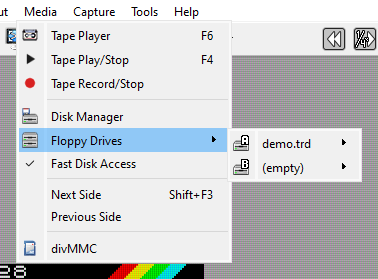
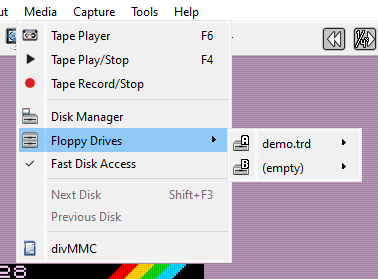
manual: Next/Previous Tape or Disk in the Media menu, grayed with no other side; menu-floppy re-shot

Changed region(s): [[0.1164, 0.7455, 0.3201, 0.8029], [0.4365, 0.6595, 0.582, 0.7168], [0.1164, 0.6595, 0.291, 0.7168]]

diff --git a/docs/manual/files.md b/docs/manual/files.md
@@ -135,16 +135,19 @@ and its gamepad bindings and its cheat file stay, as when the next tape of a set
 itself (see [Tapes](tapes.md)). The side goes in while the machine runs, with no pause in
 the picture or the sound.
 
-```{index} Next Side, Previous Side, side; changing by a key
+```{index} Next Tape or Disk, Previous Tape or Disk, side; changing by a key
 ```
 
-**Media > Next Side**, Shift+F3, puts in the next side without a menu: side B after side A,
-disk 3 after disk 2, and the first after the last; **Previous Side** goes the other way and
-has no key at first (see [Hotkeys](hotkeys.md)). It works on the tape or the drive that the
-program used last, the one the window title names, and keeps to it while you press it again;
-before the program has used either, on the tape if it is one of a set, else on drive A. A
-playing tape is stopped first. A disk that is in another drive is passed over. The screen
-shows what went in, as `drive A: side B`, or `no other side`. Of the files of one side, as
+**Media > Next Tape** or **Next Disk**, Shift+F3, puts in the next side without a menu:
+side B after side A, disk 3 after disk 2, and the first after the last; **Previous Tape** or
+**Previous Disk** goes the other way and has no key at first (see [Hotkeys](hotkeys.md),
+where they are **Next Tape or Disk** and **Previous Tape or Disk**). It works on the tape or
+the drive that the program used last, the one the window title names, and keeps to it while
+you press it again; before the program has used either, on the tape if it is one of a set,
+else on drive A. The menu names which one it is, and grays the items when there is no other
+side to put in. A playing tape is stopped first. A disk that is in another drive is passed
+over. The screen shows what went in, as `drive A: side B`, or `no other tape`, `no other
+disk`. Of the files of one side, as
 `Side A` and `Side A [a]`, the one with the same notes in brackets goes in. An image from
 an archive of several whose names make no set, as `BR_MHM1.TRD` and `BR_MHM2.TRD`, steps
 through the archive's list, as its menu shows it; the next tape of a set going in by

diff --git a/docs/manual/media.md b/docs/manual/media.md
@@ -11,7 +11,7 @@ the hardware it copies. A divMMC can be added to the Sinclair models and the Pen
 |---|---|
 | {icon}`tape` **Tape Player**, **Tape Play/Stop**, **Tape Record/Stop** | [Tapes](tapes.md) |
 | {icon}`fdd_disk` **Disk Manager**, {icon}`fdd` **Floppy Drives**, **Fast Disk Access** | [Floppy disks](disks.md) |
-| **Next Side**, **Previous Side** | [The other sides beside an image](files.md#the-other-sides-beside-an-image) |
+| **Next Tape**, **Previous Tape** or **Next Disk**, **Previous Disk** | [The other sides beside an image](files.md#the-other-sides-beside-an-image) |
 | {icon}`cartrige` **Cartridge** | [Cartridge](#cartridge), below |
 | {icon}`sdcard` **divMMC** | [divMMC](divmmc.md) |
 | {icon}`sdcard` **SD Card**, {icon}`hdd` **Drives** | [SD cards and hard disks](sd-hdd.md) |

diff --git a/docs/manual/menu-bar.md b/docs/manual/menu-bar.md
@@ -10,7 +10,7 @@
 | **Favorites** | files you keep at hand |
 | **Machine** | which machine runs, reset, turbo, pause, fast mode, slow motion, fast forward, rewind |
 | **Input** | keyboard and mouse grab, keymaps, gamepads |
-| **Media** | tape player, disk manager, floppy drives, fast disk access, next and previous side, cartridge, divMMC, SD card, hard disks |
+| **Media** | tape player, disk manager, floppy drives, fast disk access, next and previous tape or disk, cartridge, divMMC, SD card, hard disks |
 | **Capture** | screenshots, video and sound recording, RZX |
 | **Tools** | **Cheats**, the **Debugger** and its windows, **Options** |
 | **Help** | this manual, the project page, what is new, reporting a problem |

diff --git a/docs/manual/hotkeys.md b/docs/manual/hotkeys.md
@@ -164,8 +164,8 @@ on the numeric keypad: Alt+Num++ is Alt with the keypad plus.
 | Open | F3 | F3 |
 | Recent Files | - | - |
 | Reload | - | - |
-| Next Side | Shift+F3 | Shift+F3 |
-| Previous Side | - | - |
+| Next Tape or Disk | Shift+F3 | Shift+F3 |
+| Previous Tape or Disk | - | - |
 | SD Card: Eject | - | - |
 | SD Card: Refresh | - | - |
 | Add to Favorites | - | - |
